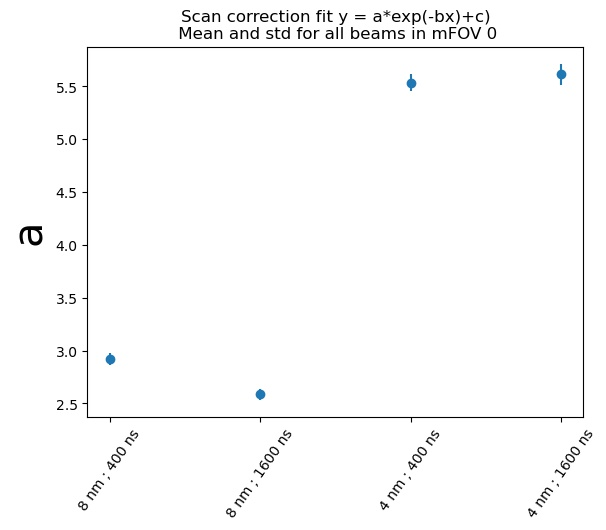
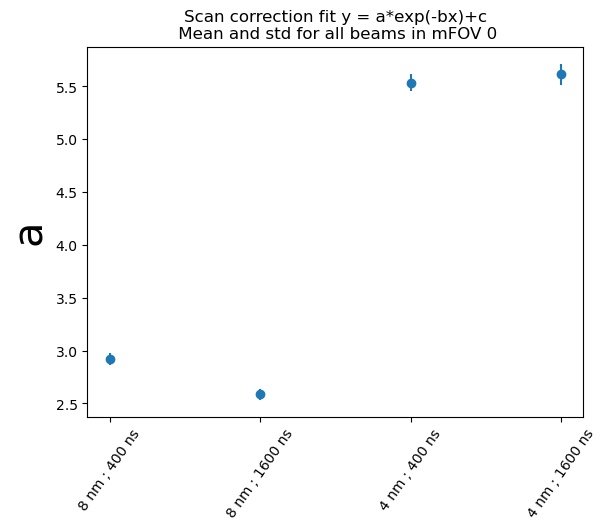
minor fix snalyze script

Changed region(s): [[0.297, 0.0, 0.802, 0.0604]]

diff --git a/analyze_scan_distortions.py b/analyze_scan_distortions.py
@@ -45,61 +45,24 @@ print(all_a)
 
 
 # plot mean,std of a
-fig, ax = plt.subplots()
-ax.errorbar(
-    range(len(all_a)),
-    [np.mean(a) for a in all_a],
-    [np.std(a) for a in all_a],
-    linestyle = 'None',
-    fmt = 'o')
+for variable in ['a', 'b', 'c']:
+    fig, ax = plt.subplots()
+    all_variable = vars()['all_' + variable]
+    ax.errorbar(
+        range(len(all_variable)),
+        [np.mean(a) for a in all_variable],
+        [np.std(a) for a in all_variable],
+        linestyle = 'None',
+        fmt = 'o')
 
-ax.set_title(
-    'Scan correction fit y = a*exp(-bx)+c)'
-    '\n Mean and std for all beams in mFOV 0')
-ax.set_ylabel('a', fontsize = 30)
-ax.set_xticks([0,1,2,3])
-ax.set_xticklabels(conditions)
-for tick in ax.get_xticklabels():
-    tick.set_rotation(55)
-fig.savefig('a.jpg', bbox_inches='tight')
-
-# plot mean,std of b
-fig, ax = plt.subplots()
-ax.errorbar(
-    range(len(all_b)),
-    [np.mean(b) for b in all_b],
-    [np.std(b) for b in all_b],
-    linestyle = 'None',
-    fmt = 'o')
-
-ax.set_title(
-    'Scan correction fit y = a*exp(-bx)+c)'
-    '\n Mean and std for all beams in mFOV 0')
-ax.set_ylabel('b', fontsize = 30)
-ax.set_xticks([0,1,2,3])
-ax.set_xticklabels(conditions)
-for tick in ax.get_xticklabels():
-    tick.set_rotation(55)
-fig.savefig('b.jpg', bbox_inches='tight')
-
-# plot mean,std of c
-fig, ax = plt.subplots()
-ax.errorbar(
-    range(len(all_c)),
-    [np.mean(c) for c in all_c],
-    [np.std(c) for c in all_c],
-    linestyle = 'None',
-    fmt = 'o')
-
-ax.set_title(
-    'Scan correction fit y = a*exp(-bx)+c)'
-    '\n Mean and std for all beams in mFOV 0')
-ax.set_ylabel('c', fontsize = 30)
-ax.set_xticks([0,1,2,3])
-ax.set_xticklabels(conditions)
-for tick in ax.get_xticklabels():
-    tick.set_rotation(55)
-fig.savefig('c.jpg', bbox_inches='tight')
-
+    ax.set_title(
+        'Scan correction fit y = a*exp(-bx)+c'
+        '\n Mean and std for all beams in mFOV 0')
+    ax.set_ylabel(variable, fontsize = 30)
+    ax.set_xticks([0,1,2,3])
+    ax.set_xticklabels(conditions)
+    for tick in ax.get_xticklabels():
+        tick.set_rotation(55)
+    fig.savefig(variable + '.jpg', bbox_inches='tight')
 
 plt.show()
